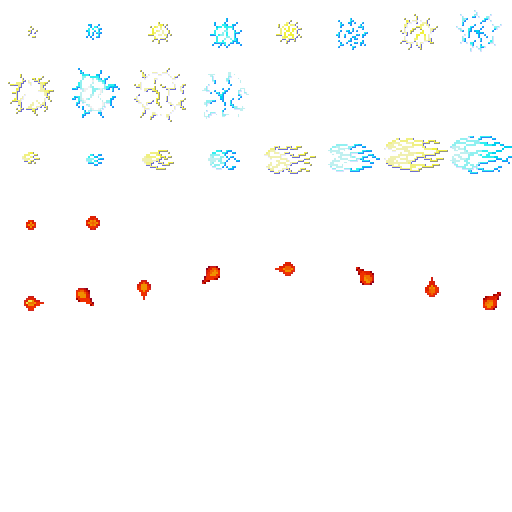
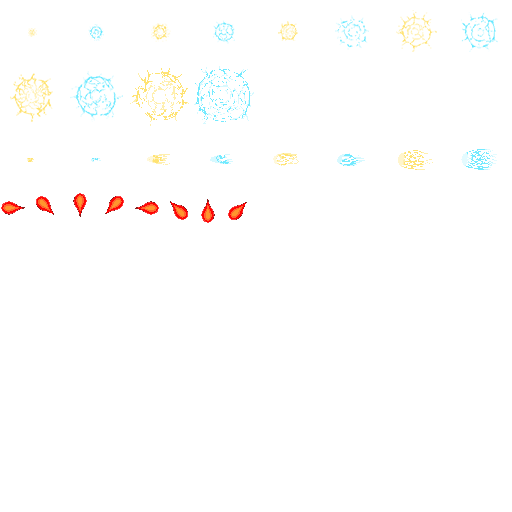
爆発エフェクト、プレイヤー念力系差し替え

diff --git a/Solution/AceLiveMonitor/Impact.cpp b/Solution/AceLiveMonitor/Impact.cpp
@@ -20,7 +20,7 @@ void Impact::update( ) {
 }
 
 void Impact::setSynchronousData( int camera_pos ) const {
-	int ANIM[ ] = { 0, 1, 3, 4 };
+	int ANIM[ ] = { 0, 1, 2, 3, 4, 5, 6, 7, 8, 9, 10, 11, 12, 13, 14 };
 	int anim_size = sizeof( ANIM ) / sizeof( ANIM[ 0 ] );
 	int pattern = ( _anim_count * anim_size ) / MAX_ANIM_COUNT;
 	if ( pattern > anim_size - 1 ) {

diff --git a/Solution/AceCommon/ace_define.h b/Solution/AceCommon/ace_define.h
@@ -19,7 +19,7 @@ const int EFFECT_CHIP_WIDTH = 8;
 const int ENEMY_NORMAL_CHIP_WIDTH = 20;
 const int ENEMY_SMALL_CHIP_WIDTH = 8;
 const int ENEMY_BIG_CHIP_WIDTH = 10;
-const int IMPACT_CHIP_WIDTH = 2;
+const int IMPACT_CHIP_WIDTH = 4;
 const int ITEM_CHIP_WIDTH = 8;
 const int VIEW_TITLE_Y = 0;
 const int VIEW_WIDTH = 256;
